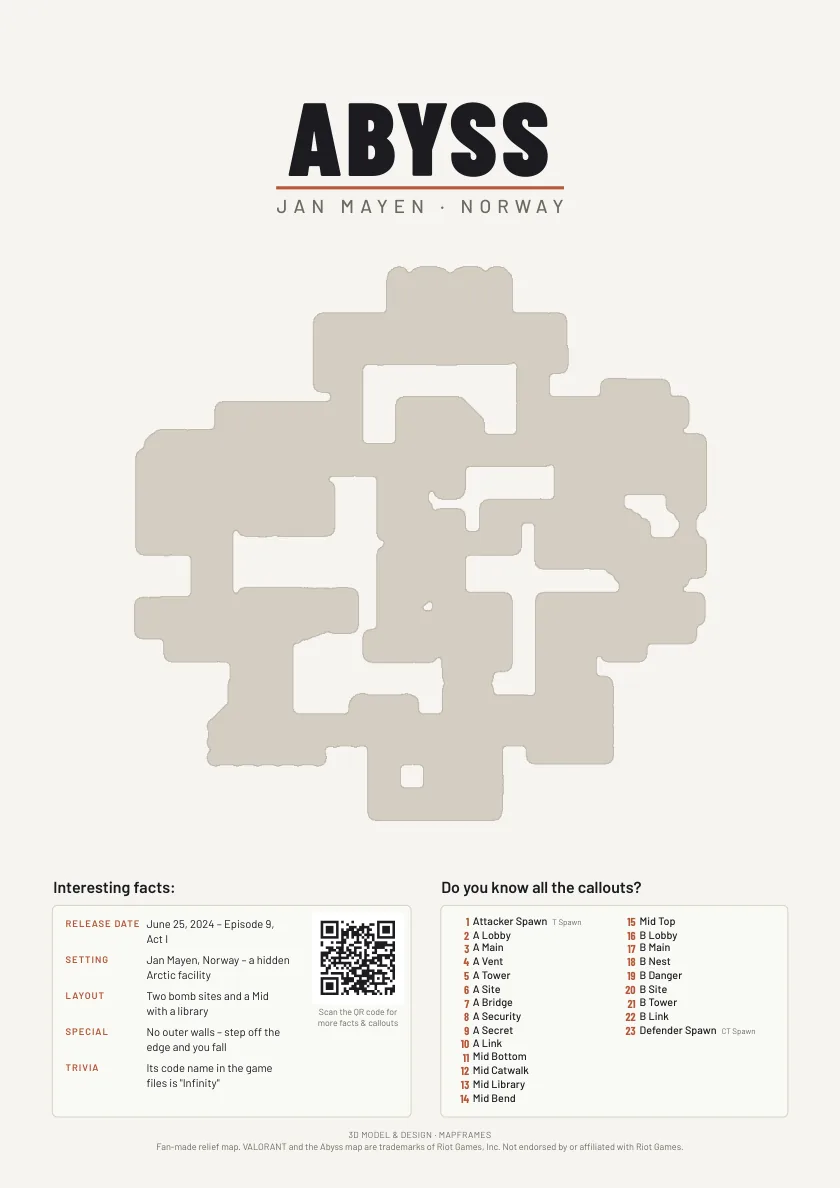
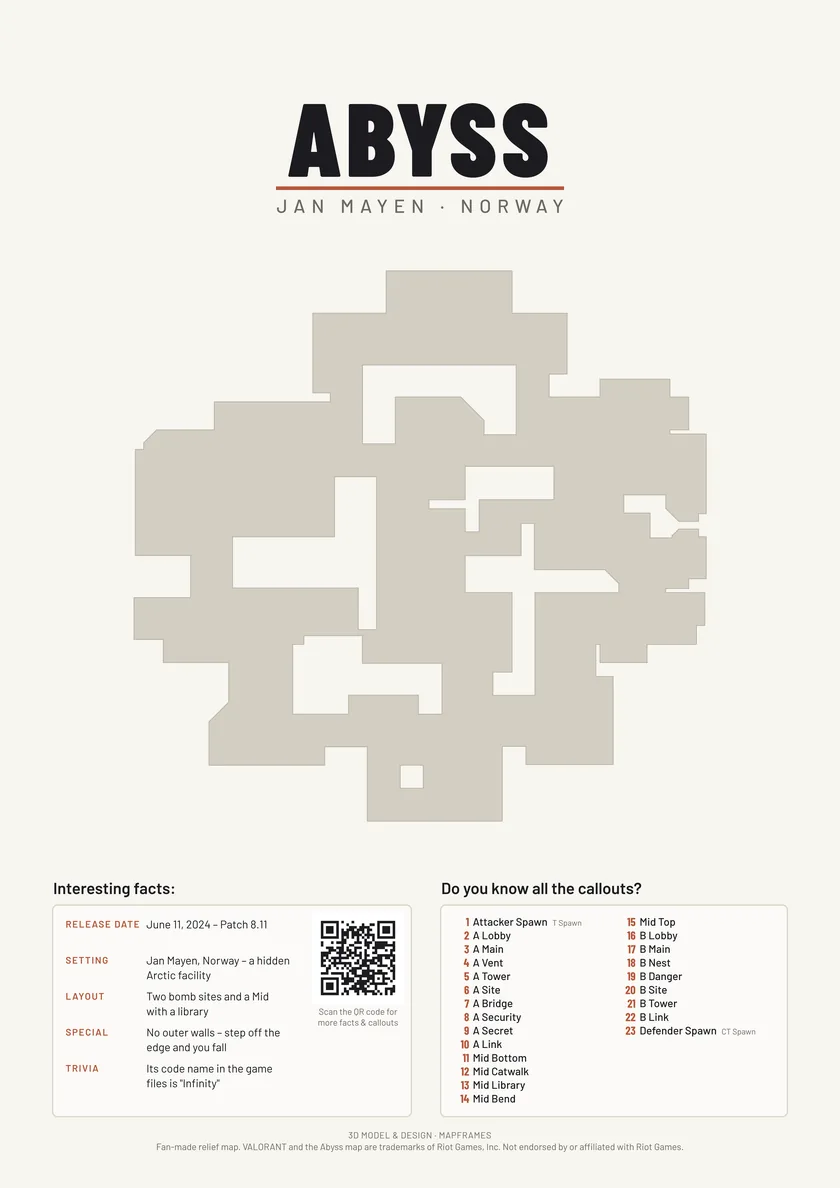
Abyss: relief and thumbnail from the final model (V18), poster preview with V18 silhouette, release date June 11, 2024 – Patch 8.11
Claude-Session: https://claude.ai/code/session_01FzT4sPnAGurHRYYzMdNgB6

diff --git a/abyss/index.html b/abyss/index.html
@@ -44,7 +44,7 @@
     </div>
   </div>
 </section>
-<section class="about wrap"><h2>About Abyss</h2><dl class="facts" style="--n:5"><div><dt>Release date</dt><dd>June 25, 2024 – Episode 9, Act I</dd></div><div><dt>Setting</dt><dd>Jan Mayen, Norway – a hidden facility in the Arctic</dd></div><div><dt>Layout</dt><dd>Two bomb sites and a Mid with a library</dd></div><div><dt>Special</dt><dd>No outer walls – step off the edge and you fall to your death</dd></div><div><dt>Trivia</dt><dd>Its code name in the game files is “Infinity”</dd></div></dl></section>
+<section class="about wrap"><h2>About Abyss</h2><dl class="facts" style="--n:5"><div><dt>Release date</dt><dd>June 11, 2024 – Patch 8.11</dd></div><div><dt>Setting</dt><dd>Jan Mayen, Norway – a hidden facility in the Arctic</dd></div><div><dt>Layout</dt><dd>Two bomb sites and a Mid with a library</dd></div><div><dt>Special</dt><dd>No outer walls – step off the edge and you fall to your death</dd></div><div><dt>Trivia</dt><dd>Its code name in the game files is “Infinity”</dd></div></dl></section>
 <section class="more wrap"><h2>All VALORANT maps</h2><div class="tiles"><a class="tile" href="./" aria-current="page"><span class="im"><img src="../assets/abyss-thumb.webp" alt="" loading="lazy"></span><b>Abyss</b><span>Jan Mayen, Norway</span><span>23 callouts</span></a><a class="tile" href="../ascent/"><span class="im"><img src="../assets/ascent-thumb.webp" alt="" loading="lazy"></span><b>Ascent</b><span>Venice, Italy</span><span>68 callouts</span></a><a class="tile" href="../bind/"><span class="im"><img src="../assets/bind-thumb.webp" alt="" loading="lazy"></span><b>Bind</b><span>Rabat, Morocco</span><span>28 callouts</span></a><a class="tile" href="../breeze/"><span class="im"><img src="../assets/breeze-thumb.webp" alt="" loading="lazy"></span><b>Breeze</b><span>Bermuda Triangle, Atlantic</span><span>23 callouts</span></a><a class="tile" href="../fracture/"><span class="im"><img src="../assets/fracture-thumb.webp" alt="" loading="lazy"></span><b>Fracture</b><span>New Mexico, USA</span><span>22 callouts</span></a><a class="tile" href="../haven/"><span class="im"><img src="../assets/haven-thumb.webp" alt="" loading="lazy"></span><b>Haven</b><span>Thimphu, Bhutan</span><span>29 callouts</span></a><a class="tile" href="../icebox/"><span class="im"><img src="../assets/icebox-thumb.webp" alt="" loading="lazy"></span><b>Icebox</b><span>Bennett Island, Russia</span><span>25 callouts</span></a><a class="tile" href="../lotus/"><span class="im"><img src="../assets/lotus-thumb.webp" alt="" loading="lazy"></span><b>Lotus</b><span>Western Ghats, India</span><span>28 callouts</span></a><a class="tile" href="../pearl/"><span class="im"><img src="../assets/pearl-thumb.webp" alt="" loading="lazy"></span><b>Pearl</b><span>Lisbon, Portugal</span><span>26 callouts</span></a><a class="tile" href="../split/"><span class="im"><img src="../assets/split-thumb.webp" alt="" loading="lazy"></span><b>Split</b><span>Tokyo, Japan</span><span>24 callouts</span></a><a class="tile" href="../sunset/"><span class="im"><img src="../assets/sunset-thumb.webp" alt="" loading="lazy"></span><b>Sunset</b><span>Los Angeles, USA</span><span>17 callouts</span></a></div></section>
 </main>
 <footer><div class="wrap"><span>Mapframes, 3D-printed relief maps. <a href="../frame/">What is in the frame</a></span><span>Fan-made project. VALORANT and all related names are trademarks of Riot Games, Inc. Not endorsed by or affiliated with Riot Games.</span></div></footer>
